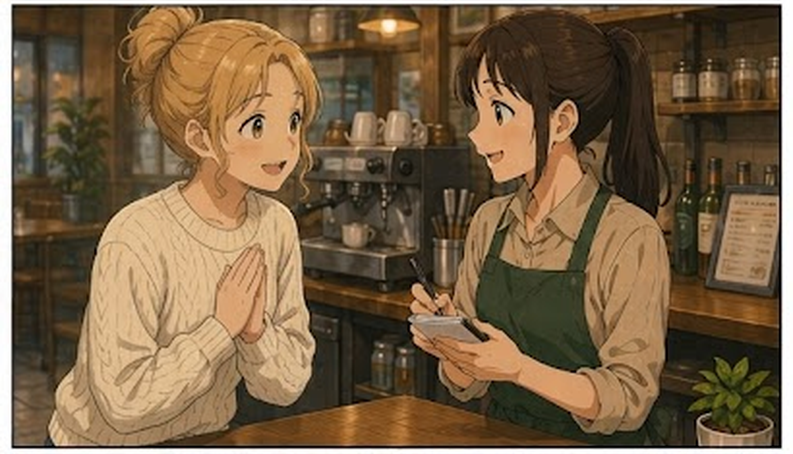
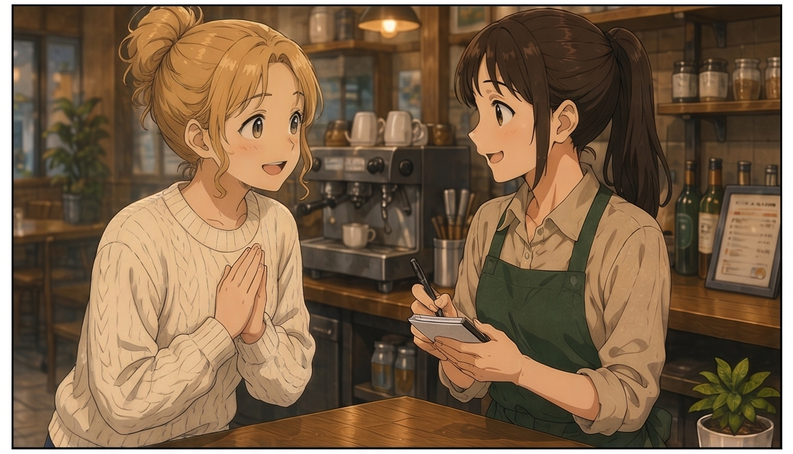
K-PATTO: re-cut ep43/45/64 from the high-res redraws
The new sources are 1312x3280 (was 410x1024), so the cuts are now scaled
down instead of up. Gemini puts a larger sparkle on these (centre 113px in,
58px to the tips), so the script picks the sparkle size by image width and
measures a per-pixel alpha map from ep43's dark background instead of a
fitted star, which left outlines. ep42's redraw is still 0.33 wide/tall and
is skipped again.

diff --git a/scripts/kpatto-replace-cuts.py b/scripts/kpatto-replace-cuts.py
@@ -2,9 +2,10 @@
 K-PATTO 컷 이미지 교체 — 다시 만든 한 장짜리 만화를 컷으로 잘라 기존 컷 파일을 덮어쓴다.
 
   1) 오른쪽 아래 Gemini 반짝이 워터마크를 지운다.
-     반짝이는 흰색을 일정 비율로 섞은 것이라, 매끈한 배경 위의 반짝이에서 섞인 비율(알파 맵)을 재고
-     그 비율을 거꾸로 풀어 원래 색을 되살린다. 경계 1~2px 의 잔상은 cv2.inpaint 로 메운다.
+     반짝이는 흰색을 일정 비율로 섞은 것이라, 어두운 배경 위의 반짝이(ALPHA_REFS)에서 픽셀마다 섞인 비율
+     (알파 맵)을 재고 그 비율을 거꾸로 풀어 원래 색을 되살린다. 같은 크기의 기준이 없으면 cv2.inpaint 로 메운다.
      워터마크가 없는 이미지(밝기 차이가 없으면)는 건드리지 않는다.
+  3%를 넘게 늘어나야 맞는 원본(비율이 다른 그림)은 덮어쓰지 않고 건너뛴다.
   2) 칸 사이 흰 여백(가로·세로)을 찾아 그 한가운데에서 자른다 — 기존 컷도 여백 가운데에서 잘려 있다.
   3) 줄마다 컷 수(와이드 1 · 분할 2)가 기존 컷 파일과 같은지 확인하고,
      각 컷을 기존 파일과 같은 크기 · 같은 이름(.png)으로 저장한다(LANCZOS 리사이즈).
@@ -25,12 +26,14 @@ from PIL import Image
 
 PUBLIC = os.path.join(os.path.dirname(__file__), '..', 'public', 'kpatto')
 
-# 반짝이: 이미지 오른쪽 아래 모서리에서 (75, 75) 안쪽이 중심, 지름 약 30px (1024px 높이 이미지 기준 실측)
-WM_OFFSET = 75
-WM_RADIUS = 15
+# 반짝이 위치 · 크기(실측) — Gemini 는 이미지 크기에 따라 두 가지로 찍는다.
+#   폭 1000px 이상: 모서리에서 (113, 113) 안쪽이 중심, 꼭짓점까지 58px (1312x3280 · 1184x3584, ep43 에 맞춘 값)
+#   그보다 작으면:  (75, 75) 안쪽, 꼭짓점까지 약 15px (410x1024 · 338x1024)
+WM_LARGE = (113, 58)
+WM_SMALL = (75, 15)
 MAX_STRETCH = 0.03
 # 알파 맵을 잴 이미지: 반짝이가 어두운 단색 배경 위에 있는 것
-ALPHA_REFS = ('ep43', 'ep45')
+ALPHA_REFS = ('ep43',)
 
 
 def load(path):
@@ -47,46 +50,59 @@ def star_mask(size, radius, grow=0):
     return m.astype(np.uint8)
 
 
+def wm_params(img):
+    return WM_LARGE if img.shape[1] >= 1000 else WM_SMALL
+
+
 def wm_box(img):
     h, w = img.shape[:2]
-    cx, cy = w - WM_OFFSET, h - WM_OFFSET
-    r = WM_RADIUS + 8
-    return cx - r, cy - r, 2 * r + 1
+    offset, radius = wm_params(img)
+    r = int(radius * 1.6)
+    return w - offset - r, h - offset - r, 2 * r + 1
 
 
 def estimate_alpha(paths):
-    """매끈한 배경 위 반짝이에서 섞인 흰색 비율(알파) 맵을 잰다."""
-    maps = []
+    """어두운 단색 배경 위 반짝이에서 픽셀마다 섞인 흰색 비율(알파)을 잰다 — 반짝이 크기별로 따로.
+    별 모양을 수식으로 맞추면 가장자리 · 꼭짓점에 테두리가 남아서, 실제 반짝이를 그대로 본뜬다(몸통 약 0.5)."""
+    maps = {}
     for p in paths:
         img = load(p)
+        params = wm_params(img)
         x0, y0, s = wm_box(img)
-        patch = img[y0:y0 + s, x0:x0 + s].astype(np.float32)
-        hole = cv2.dilate(star_mask(s, WM_RADIUS, 2), np.ones((3, 3), np.uint8))
-        bg = cv2.inpaint(img[y0:y0 + s, x0:x0 + s], hole, 5, cv2.INPAINT_TELEA).astype(np.float32)
-        a = (patch - bg) / np.maximum(255.0 - bg, 1.0)
-        maps.append(np.clip(a.mean(axis=2), 0, 1))
-    return np.mean(maps, axis=0)
+        patch = img[y0:y0 + s, x0:x0 + s]
+        grow = max(2, params[1] // 10)
+        hole = cv2.dilate(star_mask(s, params[1]), np.ones((2 * grow + 1, 2 * grow + 1), np.uint8))
+        bg = cv2.inpaint(patch, hole, 9, cv2.INPAINT_TELEA).astype(np.float32)
+        a = np.clip(((patch.astype(np.float32) - bg) / np.maximum(255.0 - bg, 1.0)).mean(axis=2), 0, 0.6) * hole
+        a[a < 0.02] = 0
+        maps.setdefault(params, []).append(a)
+    return {k: np.mean(v, axis=0) for k, v in maps.items()}
 
 
 def has_watermark(img):
     x0, y0, s = wm_box(img)
+    radius = wm_params(img)[1]
+    k = radius / 15
     g = cv2.cvtColor(img[y0:y0 + s, x0:x0 + s], cv2.COLOR_BGR2GRAY).astype(np.float32)
-    inner = star_mask(s, WM_RADIUS - 5).astype(bool)
-    ring = (star_mask(s, WM_RADIUS + 7) - star_mask(s, WM_RADIUS + 2)).astype(bool)
+    inner = star_mask(s, radius - 5 * k).astype(bool)
+    ring = (star_mask(s, radius + 7 * k) - star_mask(s, radius + 2 * k)).astype(bool)
     return float(g[inner].mean() - g[ring].mean())
 
 
-def remove_watermark(img, alpha):
+def remove_watermark(img, alphas):
+    params = wm_params(img)
     x0, y0, s = wm_box(img)
-    patch = img[y0:y0 + s, x0:x0 + s].astype(np.float32)
-    a = alpha[..., None]
-    restored = (patch - 255.0 * a) / np.maximum(1.0 - a, 0.05)
     out = img.copy()
-    out[y0:y0 + s, x0:x0 + s] = np.clip(restored, 0, 255).astype(np.uint8)
-    # 별 테두리(안티앨리어싱 · JPEG 번짐)는 잔상이 남기 쉬워 얇게 inpaint 한다
-    edge = (star_mask(s, WM_RADIUS, 2) - star_mask(s, WM_RADIUS, -2)).astype(np.uint8)
+    alpha = alphas.get(params)
+    if alpha is not None:
+        patch = img[y0:y0 + s, x0:x0 + s].astype(np.float32)
+        a = alpha[..., None]
+        restored = (patch - 255.0 * a) / np.maximum(1.0 - a, 0.05)
+        out[y0:y0 + s, x0:x0 + s] = np.clip(restored, 0, 255).astype(np.uint8)
+        return out
+    # 같은 크기의 기준 이미지가 없으면 별 전체를 inpaint 로 메운다
     full = np.zeros(img.shape[:2], np.uint8)
-    full[y0:y0 + s, x0:x0 + s] = edge
+    full[y0:y0 + s, x0:x0 + s] = star_mask(s, params[1], max(2, params[1] // 6))
     return cv2.inpaint(out, full, 3, cv2.INPAINT_TELEA)
 
 
@@ -151,14 +167,14 @@ def main():
 
     sources = {int(re.match(r'ep(\d+)', os.path.basename(p)).group(1)): p
                for p in glob.glob(os.path.join(args.src, 'ep*.*'))}
-    alpha = estimate_alpha([sources[int(n[2:])] for n in ALPHA_REFS])
+    alphas = estimate_alpha([sources[int(n[2:])] for n in ALPHA_REFS])
 
     for ep in sorted(sources):
         img = load(sources[ep])
         h, w = img.shape[:2]
         score = has_watermark(img)
         if score > 12:
-            img = remove_watermark(img, alpha)
+            img = remove_watermark(img, alphas)
         wm = f'watermark removed (contrast {score:.0f})' if score > 12 else f'no watermark (contrast {score:.0f})'
         if args.preview:
             os.makedirs(args.preview, exist_ok=True)
